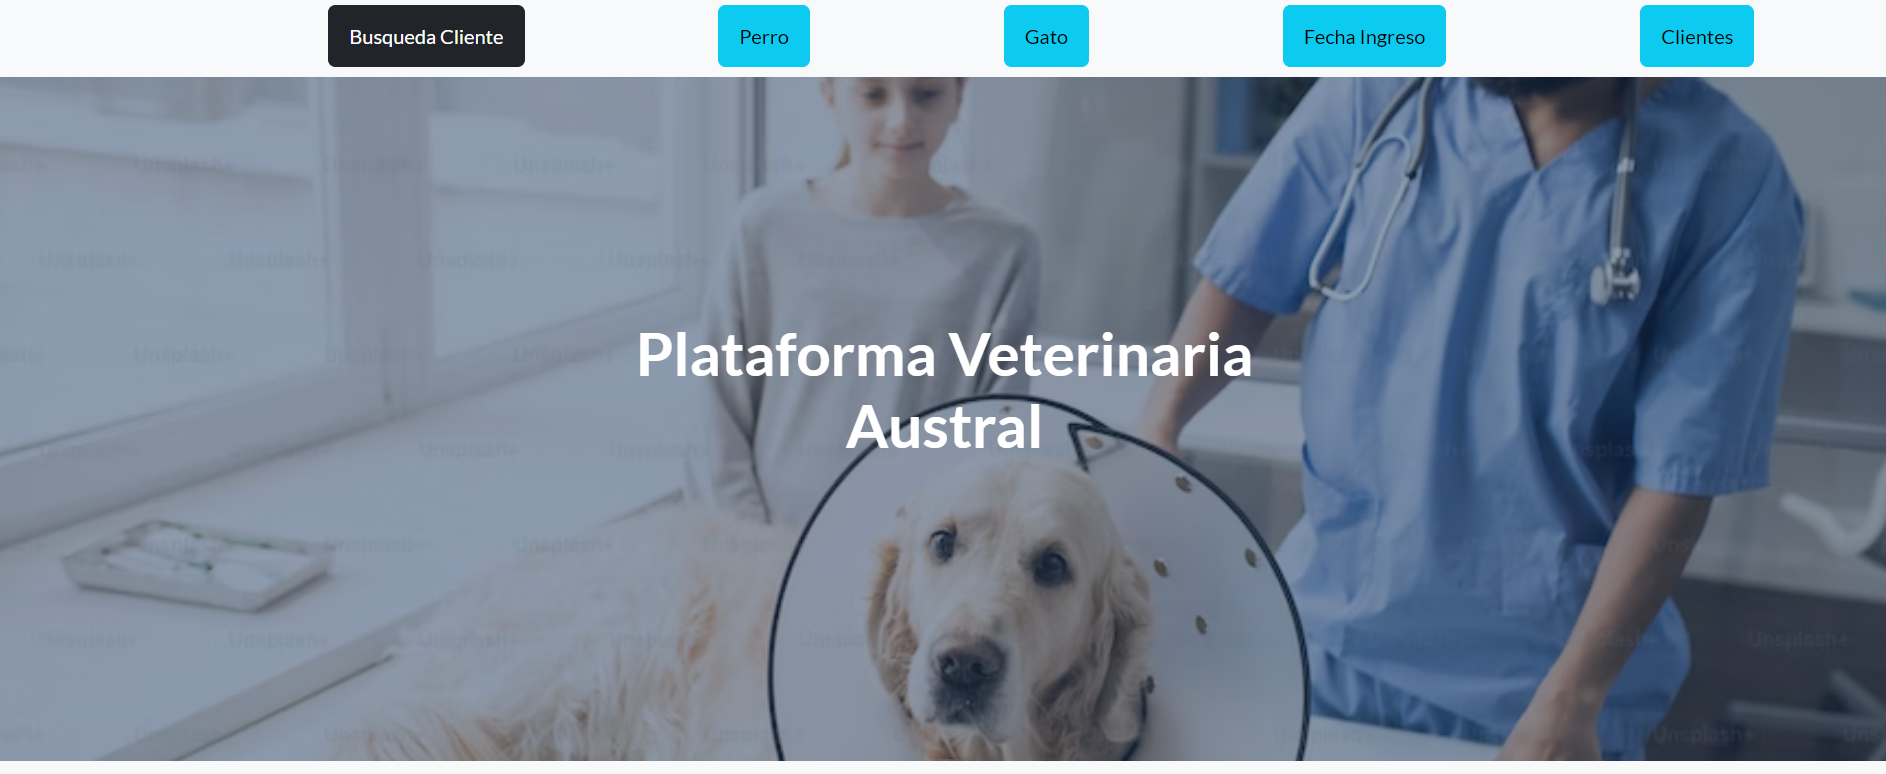
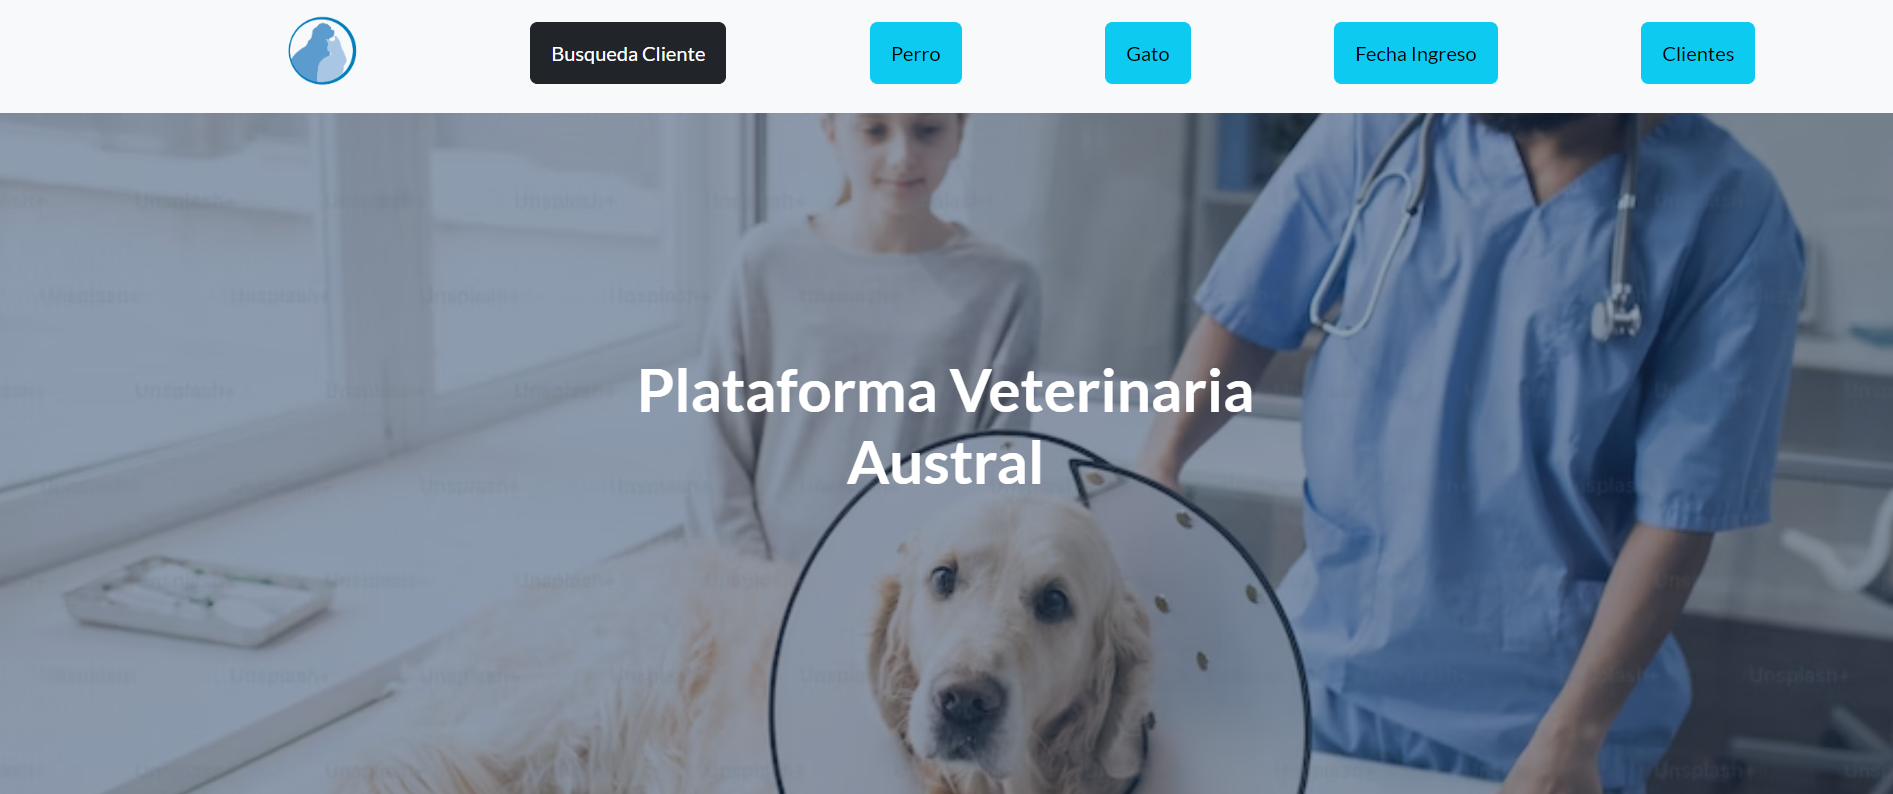
Imagen

diff --git a/proyecto/AppProyecto/Templates/AppProyecto/padre.html b/proyecto/AppProyecto/Templates/AppProyecto/padre.html
@@ -23,6 +23,9 @@
         <nav class="navbar navbar-light bg-light static-top">
             <div class="container">
                 <a href="{% url 'inicio' %}"></a>
+                <a class="navbar-brand" href="http://127.0.0.1:8000/admin">
+                    <img src="{% static 'AppProyecto/assets/img/logohome.png' %}" alt="Ir al Panel de Administración" width="70rem" height="auto">
+                </a>
                 <a class="btn btn-dark" href="{% url 'busquedaCliente' %}">Busqueda Cliente</a>
                 <a class="btn btn-info" href="{% url 'perros' %}">Perro</a> 
                 <a class="btn btn-info" href="{% url 'gatos' %}">Gato</a>

diff --git a/proyecto/AppProyecto/static/AppProyecto/css/styles.css b/proyecto/AppProyecto/static/AppProyecto/css/styles.css
@@ -598,7 +598,7 @@ progress {
 }
 
 .img-fluid {
-  max-width: 100%;
+  max-width: 5rem;
   height: auto;
 }
 

diff --git a/proyecto/AppProyecto/urls.py b/proyecto/AppProyecto/urls.py
@@ -7,5 +7,5 @@ urlpatterns = [
         path('fechaIngreso/', fecha_ingreso , name="fechaIngreso"),
         path('clientes/', clientes, name="clientes"),
         path('busquedaCliente/', busquedaCliente, name="busquedaCliente"),
-        path('resultadobusqueda/', resultadobusqueda, name="resultadobusqueda")
+        path('resultadobusqueda/', resultadobusqueda, name="resultadobusqueda"),
 ]
